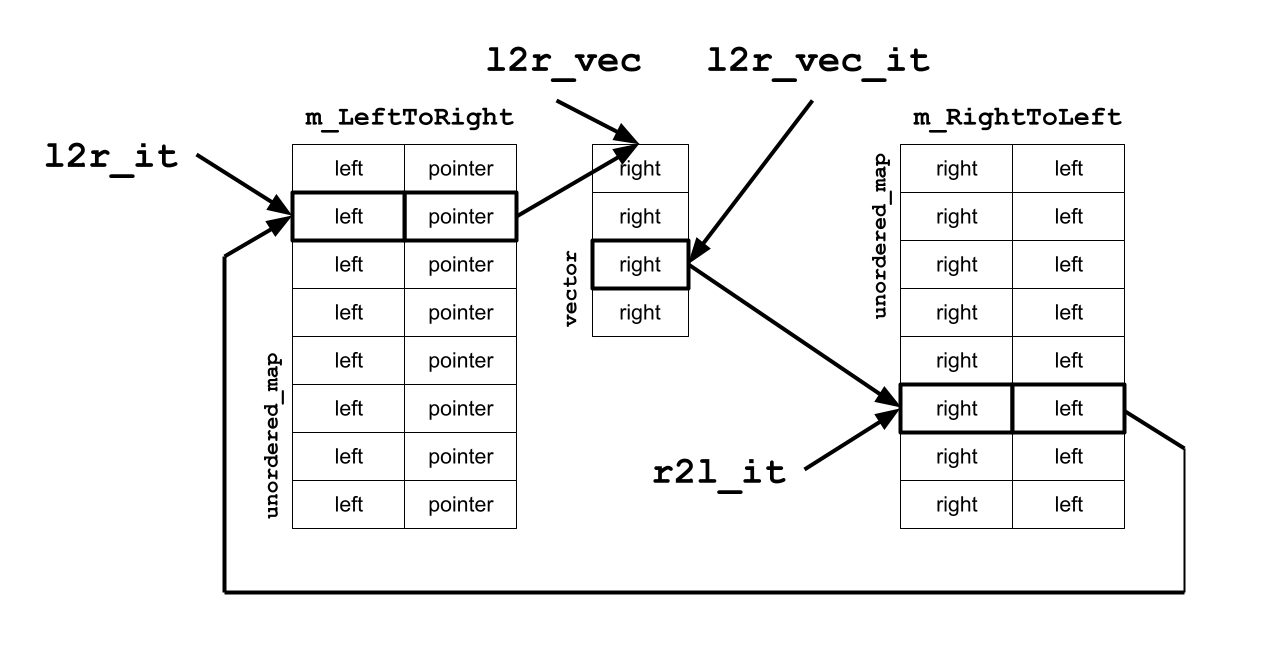
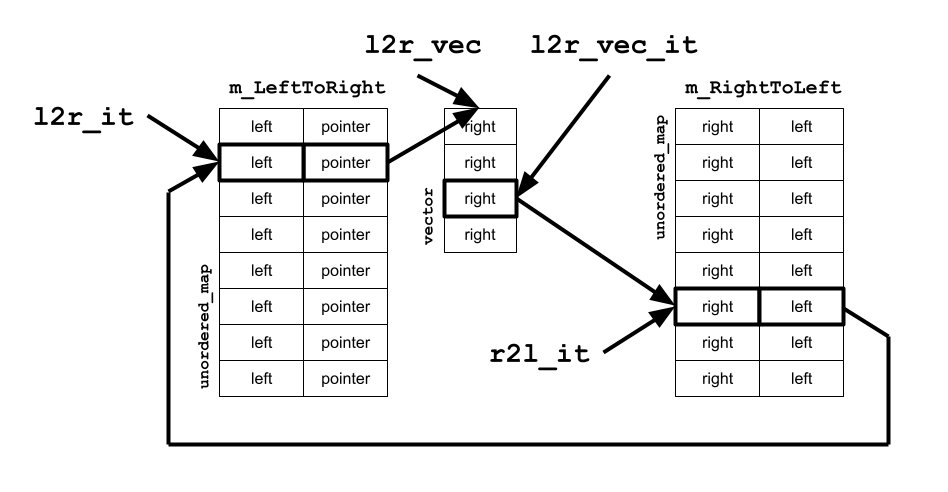
Image resize

diff --git a/README.md b/README.md
@@ -263,8 +263,8 @@ The efficiency for lookup such as `FindLeft()` and `FindRight()` is constant
 time, or O(1). All operations on a `OneToOne` are also constant.
 
 Things get more complicated with `OneToMany` and `ManyToMany`. They maintain
-sorted arrays. Insertion and removal of elements in an array involves shifting
-everything between the point of insertion/removal and the end of the array. This
+sorted arrays. Insertion and erasure of elements in an array involves shifting
+everything between the point of insertion/erasure and the end of the array. This
 is O(n). It sounds terrible, but in practice, at least in the context of our
 world editor, this has not been a problem. That’s probably because insert and
 erase operations are relatively infrequent when compared to lookups.
